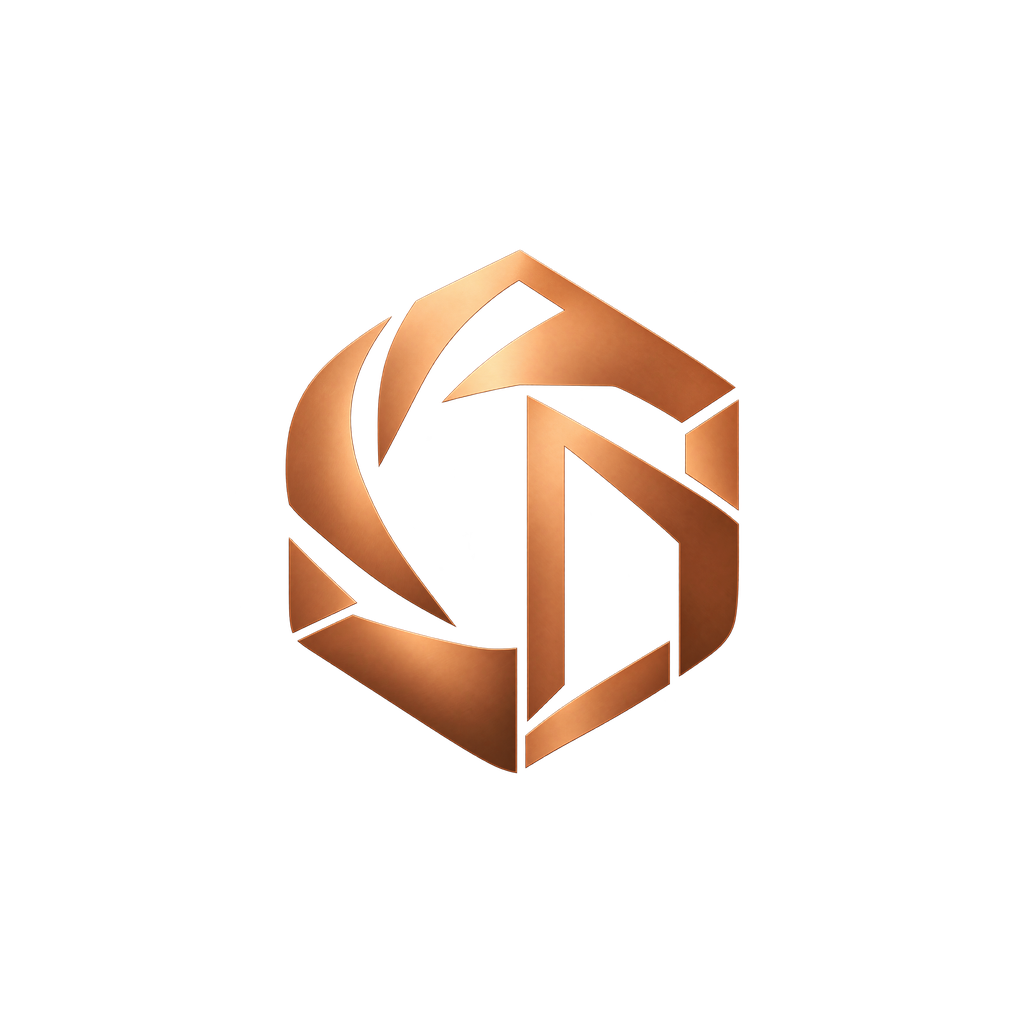
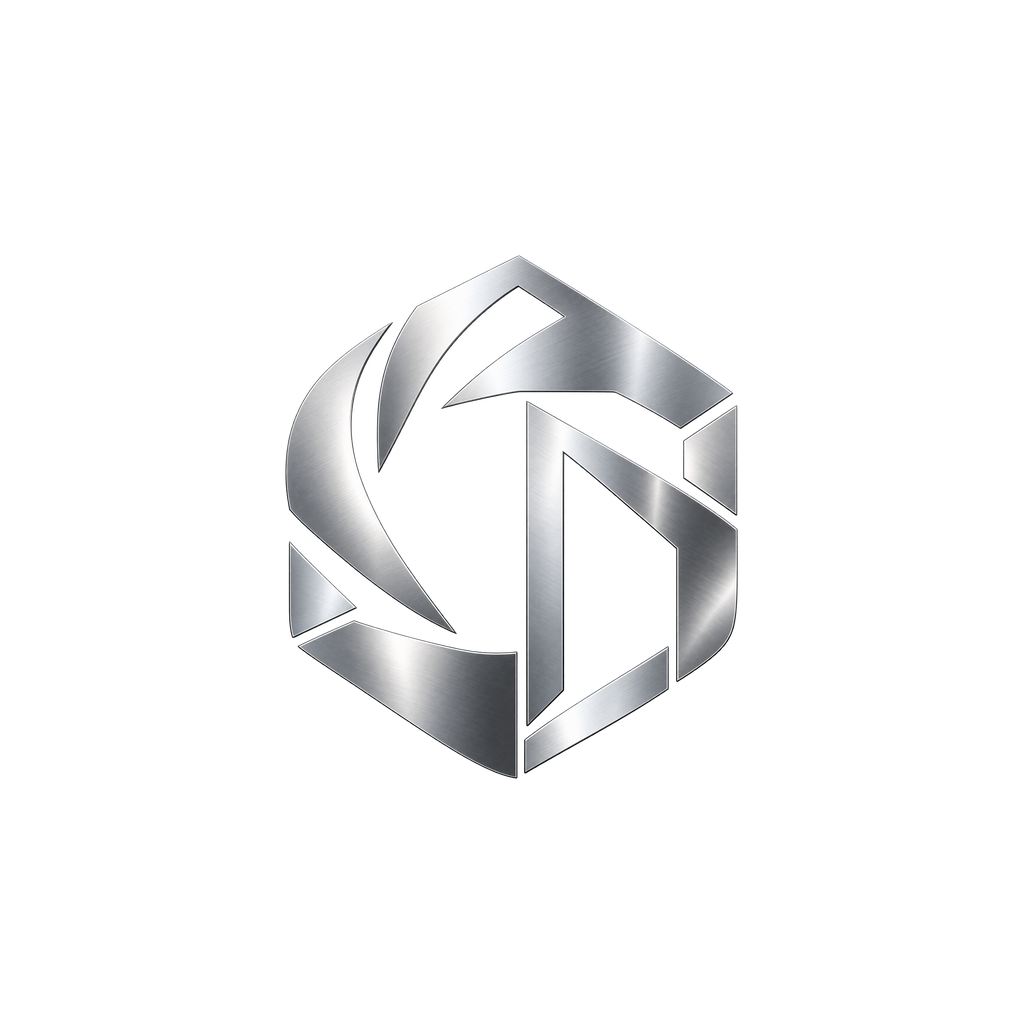
Match Snapfront emblem to silver chrome homepage gateway

Changed region(s): [[0.2812, 0.25, 0.7188, 0.7812]]

diff --git a/plan.md b/plan.md
@@ -60,3 +60,7 @@ The user selected Liquid Chrome's graphite/platinum cinematic interface with the
 Animation: real native Animated opacity/translation on decorative hero on first home entry, then a subtle slow material drift only while the route is focused and the app active. All buttons/text stay stationary and usable immediately. Respect Reduce Motion from the initial asynchronous query and live setting changes; pause/stop on background, blur or unmount; provide a visible pause-motion control. No launch interstitial, video generation, heavy live blur, or generated seller inventory.
 
 Structure: `mobile/src/lib/theme.ts` owns chrome tokens; shared UI/navigation adopts them; `components/brand.tsx` owns emblem/wordmark; `components/chrome-hero.tsx` owns decorative motion; `components/photo-composer.tsx` preserves the old photo-to-product flow behind `/snap`; home becomes a real dashboard with setup/resume, API-fed theme discovery, photo/AI/sourcing/order shortcuts, and current-store context. Retain Home, Find, Assistant, Create, My store plus hidden Trends and all other routes. `/snap` stays one tap away and wizard/draft add-photo exits point to it. Native launcher/adaptive/monochrome/splash/favicon assets derive from the approved mark; preserve EAS project ID, permissions, package identifiers and backend. Use existing diagnostics/tests and mock native/browser APIs; exported JS bundles are not device or store-release verification.
+
+## Logo finish revision — October 12, 2026
+
+Keep the selected Noir Atelier aperture/doorway logo shape and the approved Liquid Chrome interface. Change the emblem's copper material to cool brushed silver/platinum chrome matching the gateway on Home. Derive launcher, adaptive foreground/themed icon, splash, favicon and the in-app brand mark consistently from the silver master; leave typography, hero artwork, motion, controls and operational behavior unchanged. This supersedes the copper-logo color only, not the chosen silhouette or the overall design. Keep the graphite icon background and Android safe-area placement. Save locally and deliver the revised icon and refreshed source archive; GitHub publication remains blocked by the prior authorization failure, and no native release is requested.

diff --git a/README.md b/README.md
@@ -22,7 +22,7 @@ server/   Node API + public storefronts                               — Expres
 
 ### Liquid Chrome native identity
 
-Home now combines Liquid Chrome's graphite/platinum interface with the copper Noir Atelier aperture/doorway logo. It offers Build/Continue storefront setup, real catalog discovery and photo/studio/assistant/sourcing shortcuts. The original photo composer is available at `/snap`; all photo entry actions retain direct access. Decorative native hero motion supports Pause/Play, Reduce Motion and foreground/route lifecycle cleanup. Shared controls, navigation, onboarding and launcher/splash assets use the new identity. See [facelift notes and validation boundaries](docs/liquid-chrome-native-facelift.md). A new signed native build is required; this source update is not an app-store release.
+Home now combines Liquid Chrome's graphite/platinum interface with the Noir Atelier aperture/doorway logo in a brushed-silver chrome finish matching the Home gateway. It offers Build/Continue storefront setup, real catalog discovery and photo/studio/assistant/sourcing shortcuts. The original photo composer is available at `/snap`; all photo entry actions retain direct access. Decorative native hero motion supports Pause/Play, Reduce Motion and foreground/route lifecycle cleanup. Shared controls, navigation, onboarding and launcher/splash assets use the new identity. See [facelift notes and validation boundaries](docs/liquid-chrome-native-facelift.md). A new signed native build is required; this source update is not an app-store release.
 
 ## Pricing
 

diff --git a/TODO.md b/TODO.md
@@ -24,3 +24,6 @@
 - [x] Opening motion is real native decorative motion, does not delay interaction, has pause/resume, respects Reduce Motion on initial load and changes, and stops on blur/background/unmount; operational text and controls stay stationary.
 - [x] Photo-to-product creation and wizard/draft add-photo exits still work through a dedicated /snap route without changing upload/generation/publishing behavior; store-specific drafts and catalog selections remain isolated.
 - [x] Shared controls and screens have readable contrast, finger-sized touch targets, large-text/phone-friendly layout and consistent chrome surfaces; deliver source as a validated local branch/archive; GitHub PR is blocked by HTTP 401 authorization, not a merged/released build, with clear signed-build/device testing boundaries.
+
+## Silver chrome logo finish revision
+- [x] Preserve the approved aperture/doorway symbol, recolor its material to brushed silver/platinum matching the Home gateway, and use it consistently in launcher/adaptive/themed/splash/favicon/in-app mark assets; preserve the graphite background, platform safe areas, interface, motion and app behavior; deliver a verified icon and updated local source without publishing a native release.

diff --git a/docs/liquid-chrome-native-facelift.md b/docs/liquid-chrome-native-facelift.md
@@ -1,6 +1,6 @@
 # Liquid Chrome × Noir Atelier native facelift
 
-The selected design is implemented in the existing Snapfront Expo SDK 57 app: graphite backgrounds, platinum actions, polished chrome artwork, and the copper aperture/storefront-doorway emblem from Noir Atelier. The new wordmark and mark replace the previous blue/yellow branding in Home, native navigation, onboarding, app launcher, Android adaptive/themed icons, splash, and favicon.
+The selected design is implemented in the existing Snapfront Expo SDK 57 app: graphite backgrounds, platinum actions, polished chrome artwork, and the aperture/storefront-doorway emblem from Noir Atelier. At the user's request, the emblem now has a brushed silver/platinum chrome finish matching the gateway on Home rather than copper. The same silver mark replaces the previous blue/yellow branding in Home, native navigation, onboarding, app launcher, Android adaptive/themed icons, splash, and favicon. The emblem silhouette, graphite icon background, interface, motion and app behavior are preserved; the small copper editorial text accents remain unchanged.
 
 ## What changed
 
